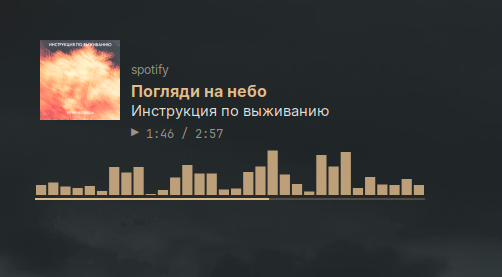
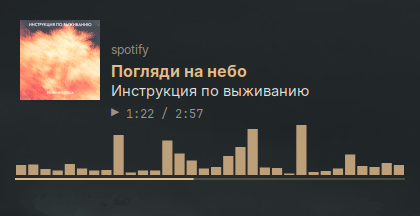
Retake README screenshots on a real desktop
Same capture area as the GIFs. Renai Circulation replaces the Katyusha
screenshot, which duplicated its GIF.

Changed region(s): [[0.031, 0.5278, 0.9595, 0.8333], [0.031, 0.0833, 0.7429, 0.5556]]

diff --git a/README.md b/README.md
@@ -28,7 +28,7 @@ progress line, and gets out of the way when nothing is playing.
 
 <p align="center">
   <img src="docs/screenshot.png" width="49%" alt="conky-player screenshot">
-  <img src="docs/screenshot-katyusha.png" width="49%" alt="conky-player with mixed Latin and CJK text">
+  <img src="docs/screenshot-renai.png" width="49%" alt="conky-player with mixed Latin and CJK text">
 </p>
 
 ## Requirements
